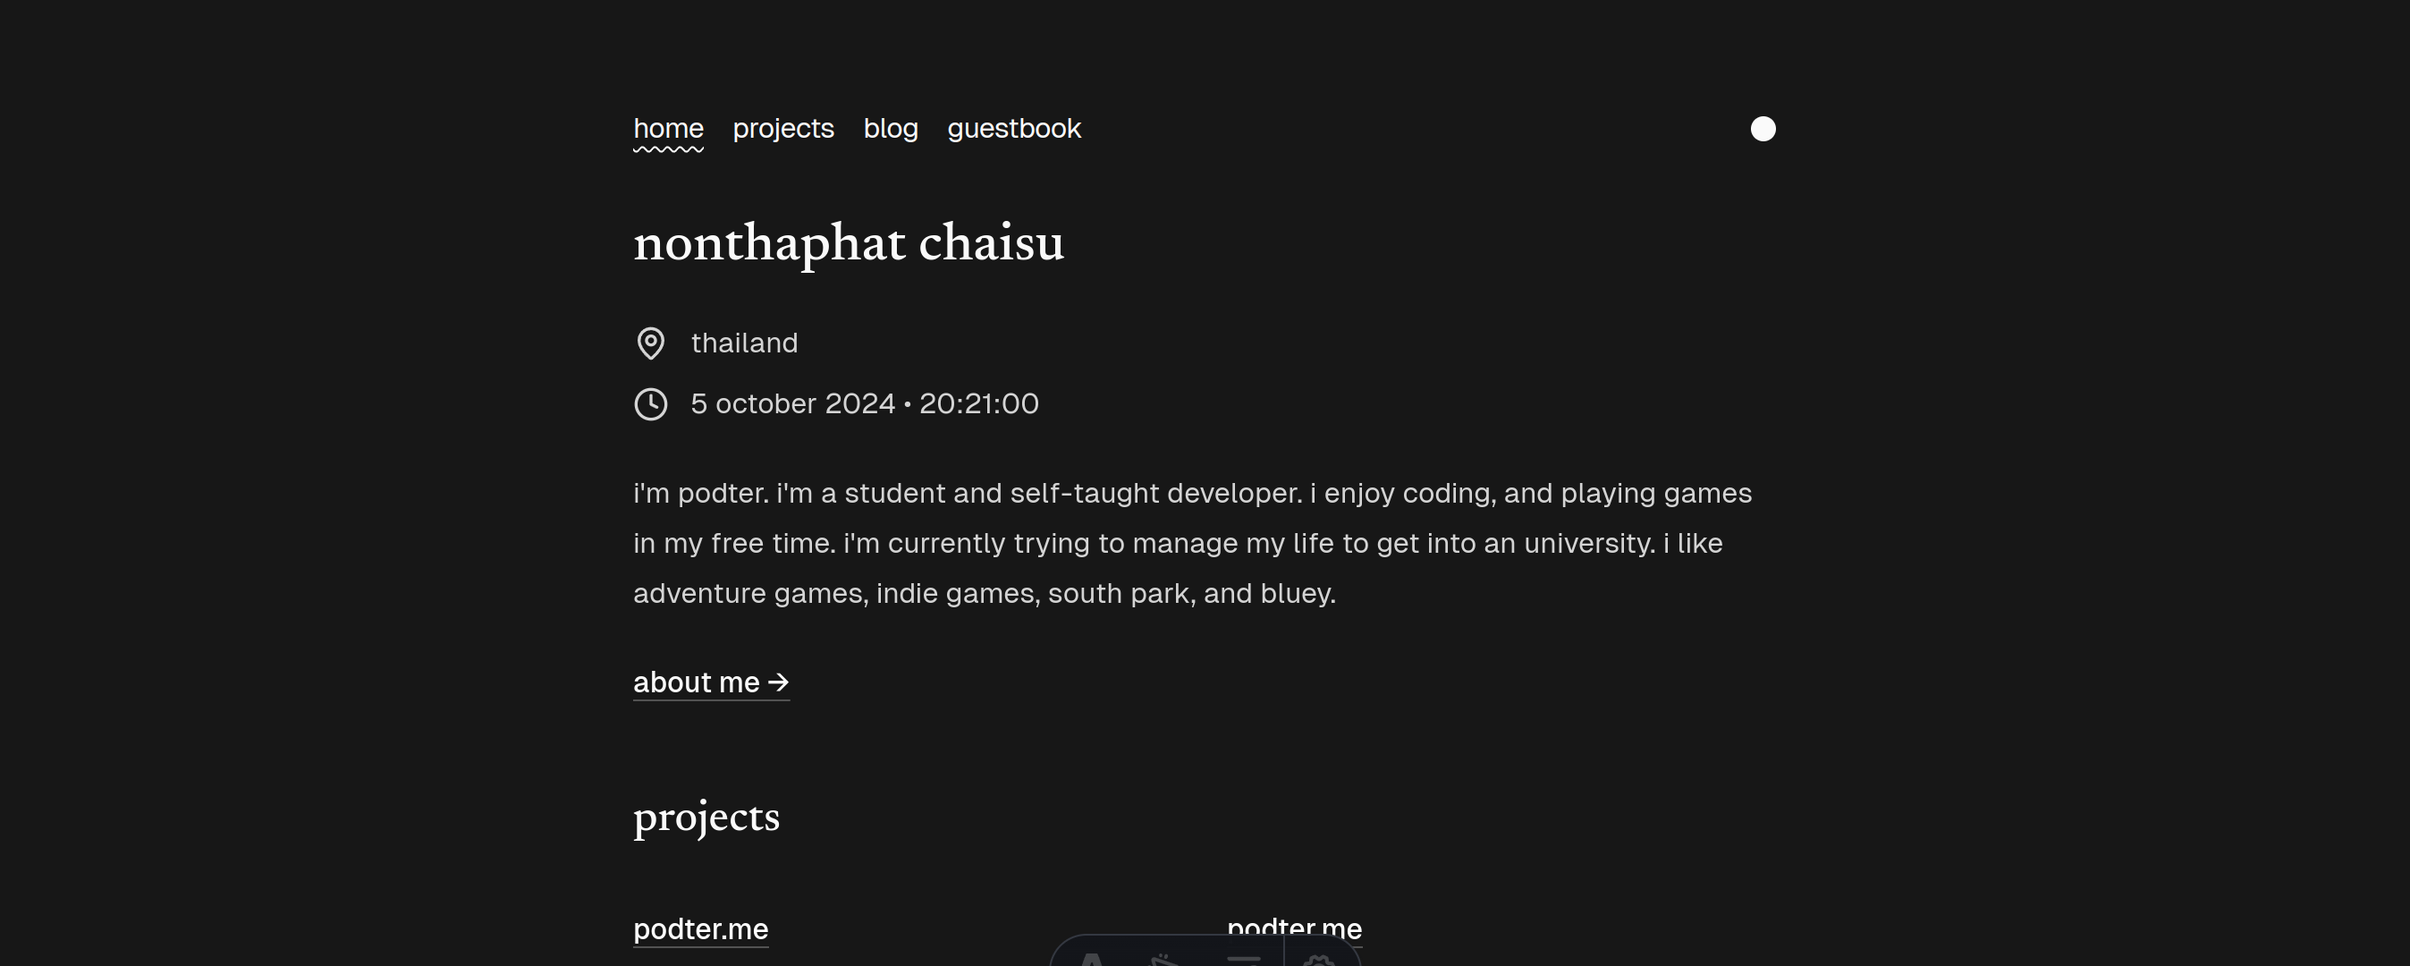
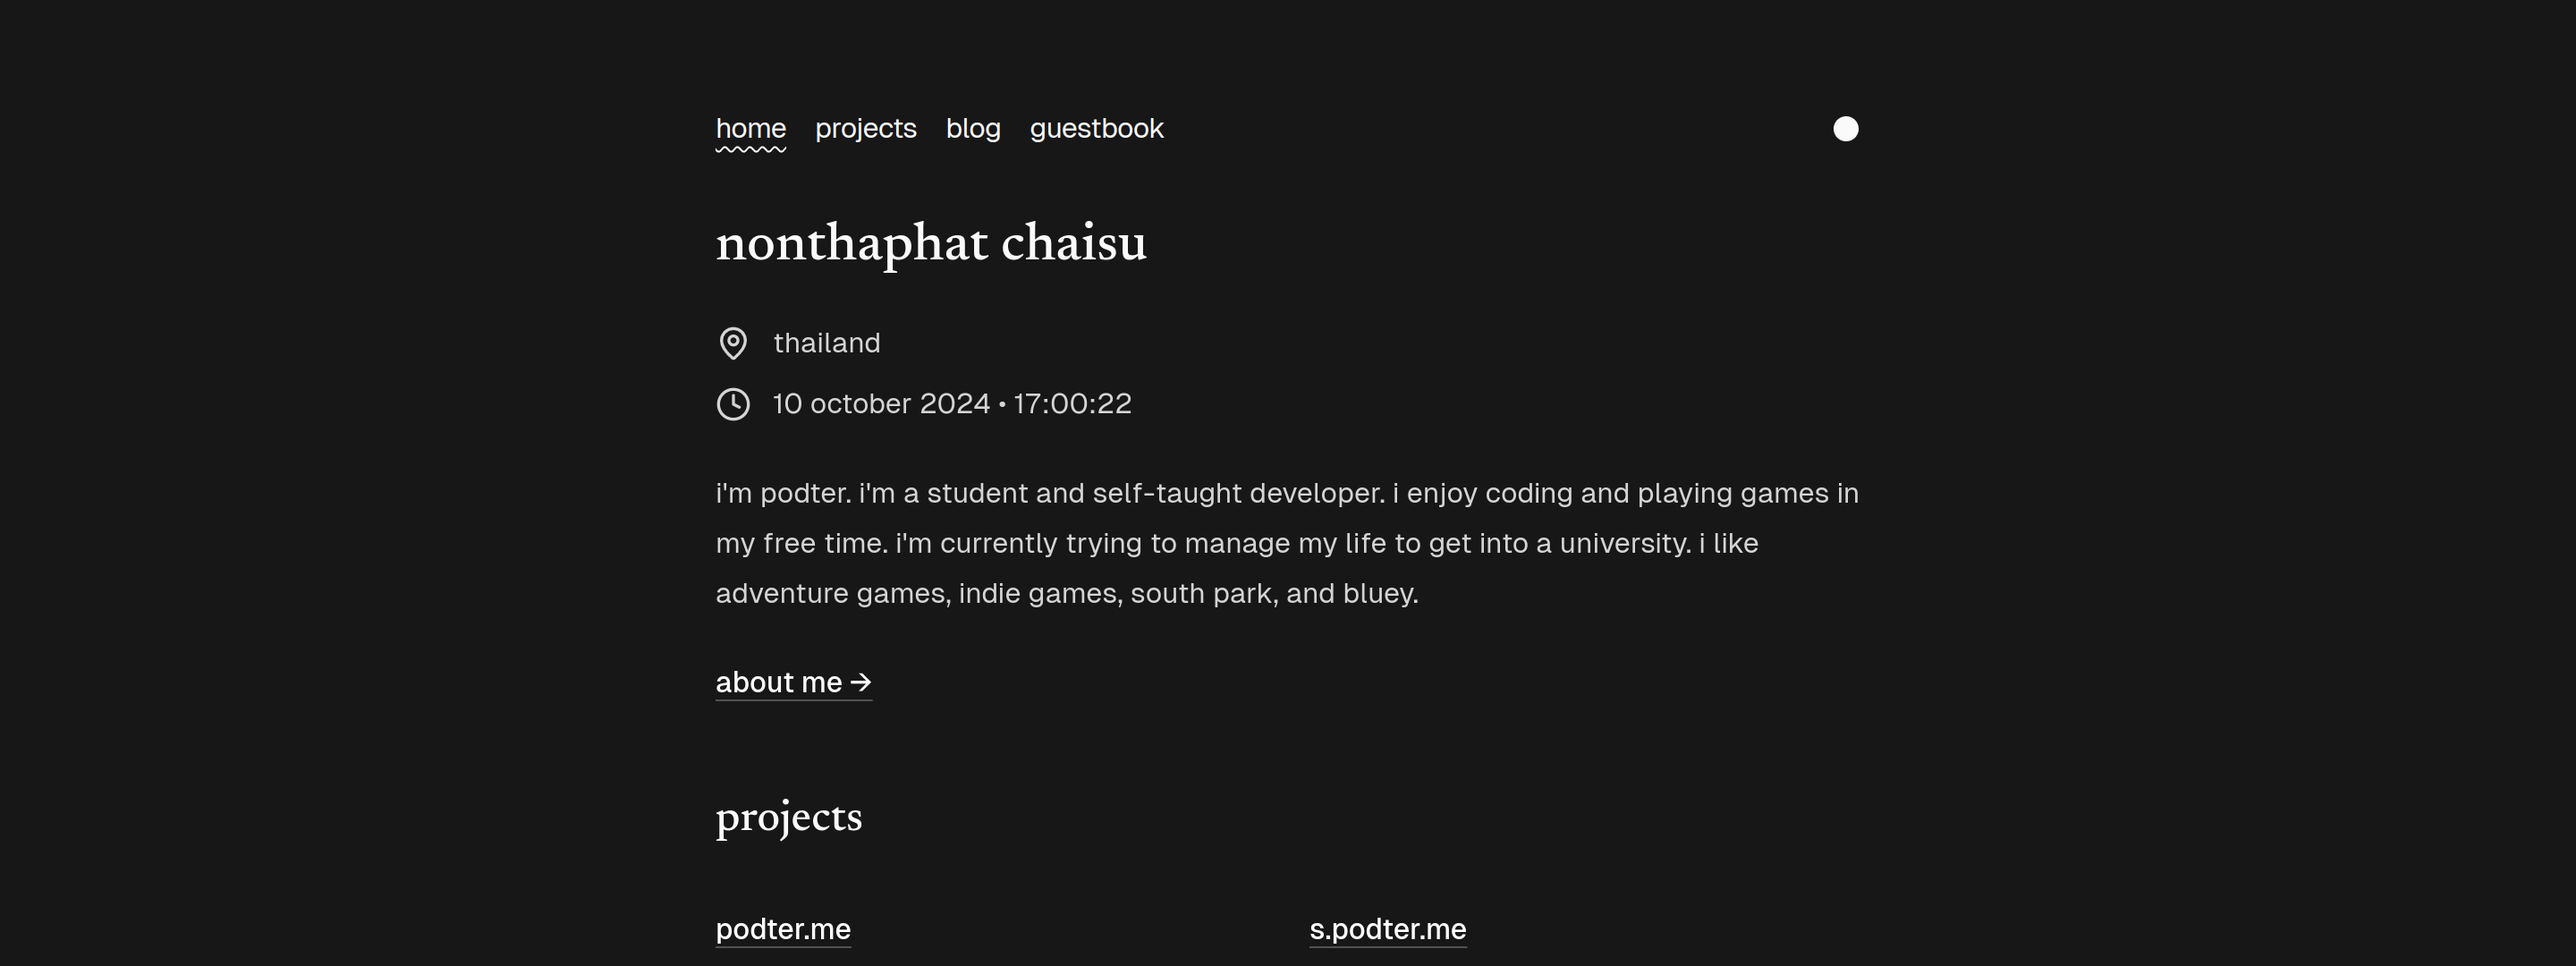
projects update

diff --git a/src/constants/projects.ts b/src/constants/projects.ts
@@ -1,3 +1,4 @@
+import brad from "~/assets/projects/brad.png";
 import screenRec from "~/assets/projects/browser-screen-recorder.png";
 import carbonBot from "~/assets/projects/carbon.png";
 import compress from "~/assets/projects/compress.png";
@@ -89,5 +90,11 @@ export const PROJECTS = [
       "yet another discord music bot written in lua using discordia. it's no longer maintained and archived on github.",
     img: luaBot,
     sourceUrl: "https://github.com/Podter/Music-Bot-Lua",
+  },
+  {
+    title: "Brad",
+    description:
+      "a discord bot that helps me and my friends to get things done quickly. not available for public use, but can see him if you see me around.",
+    img: brad,
   },
 ] as const as Project[];
